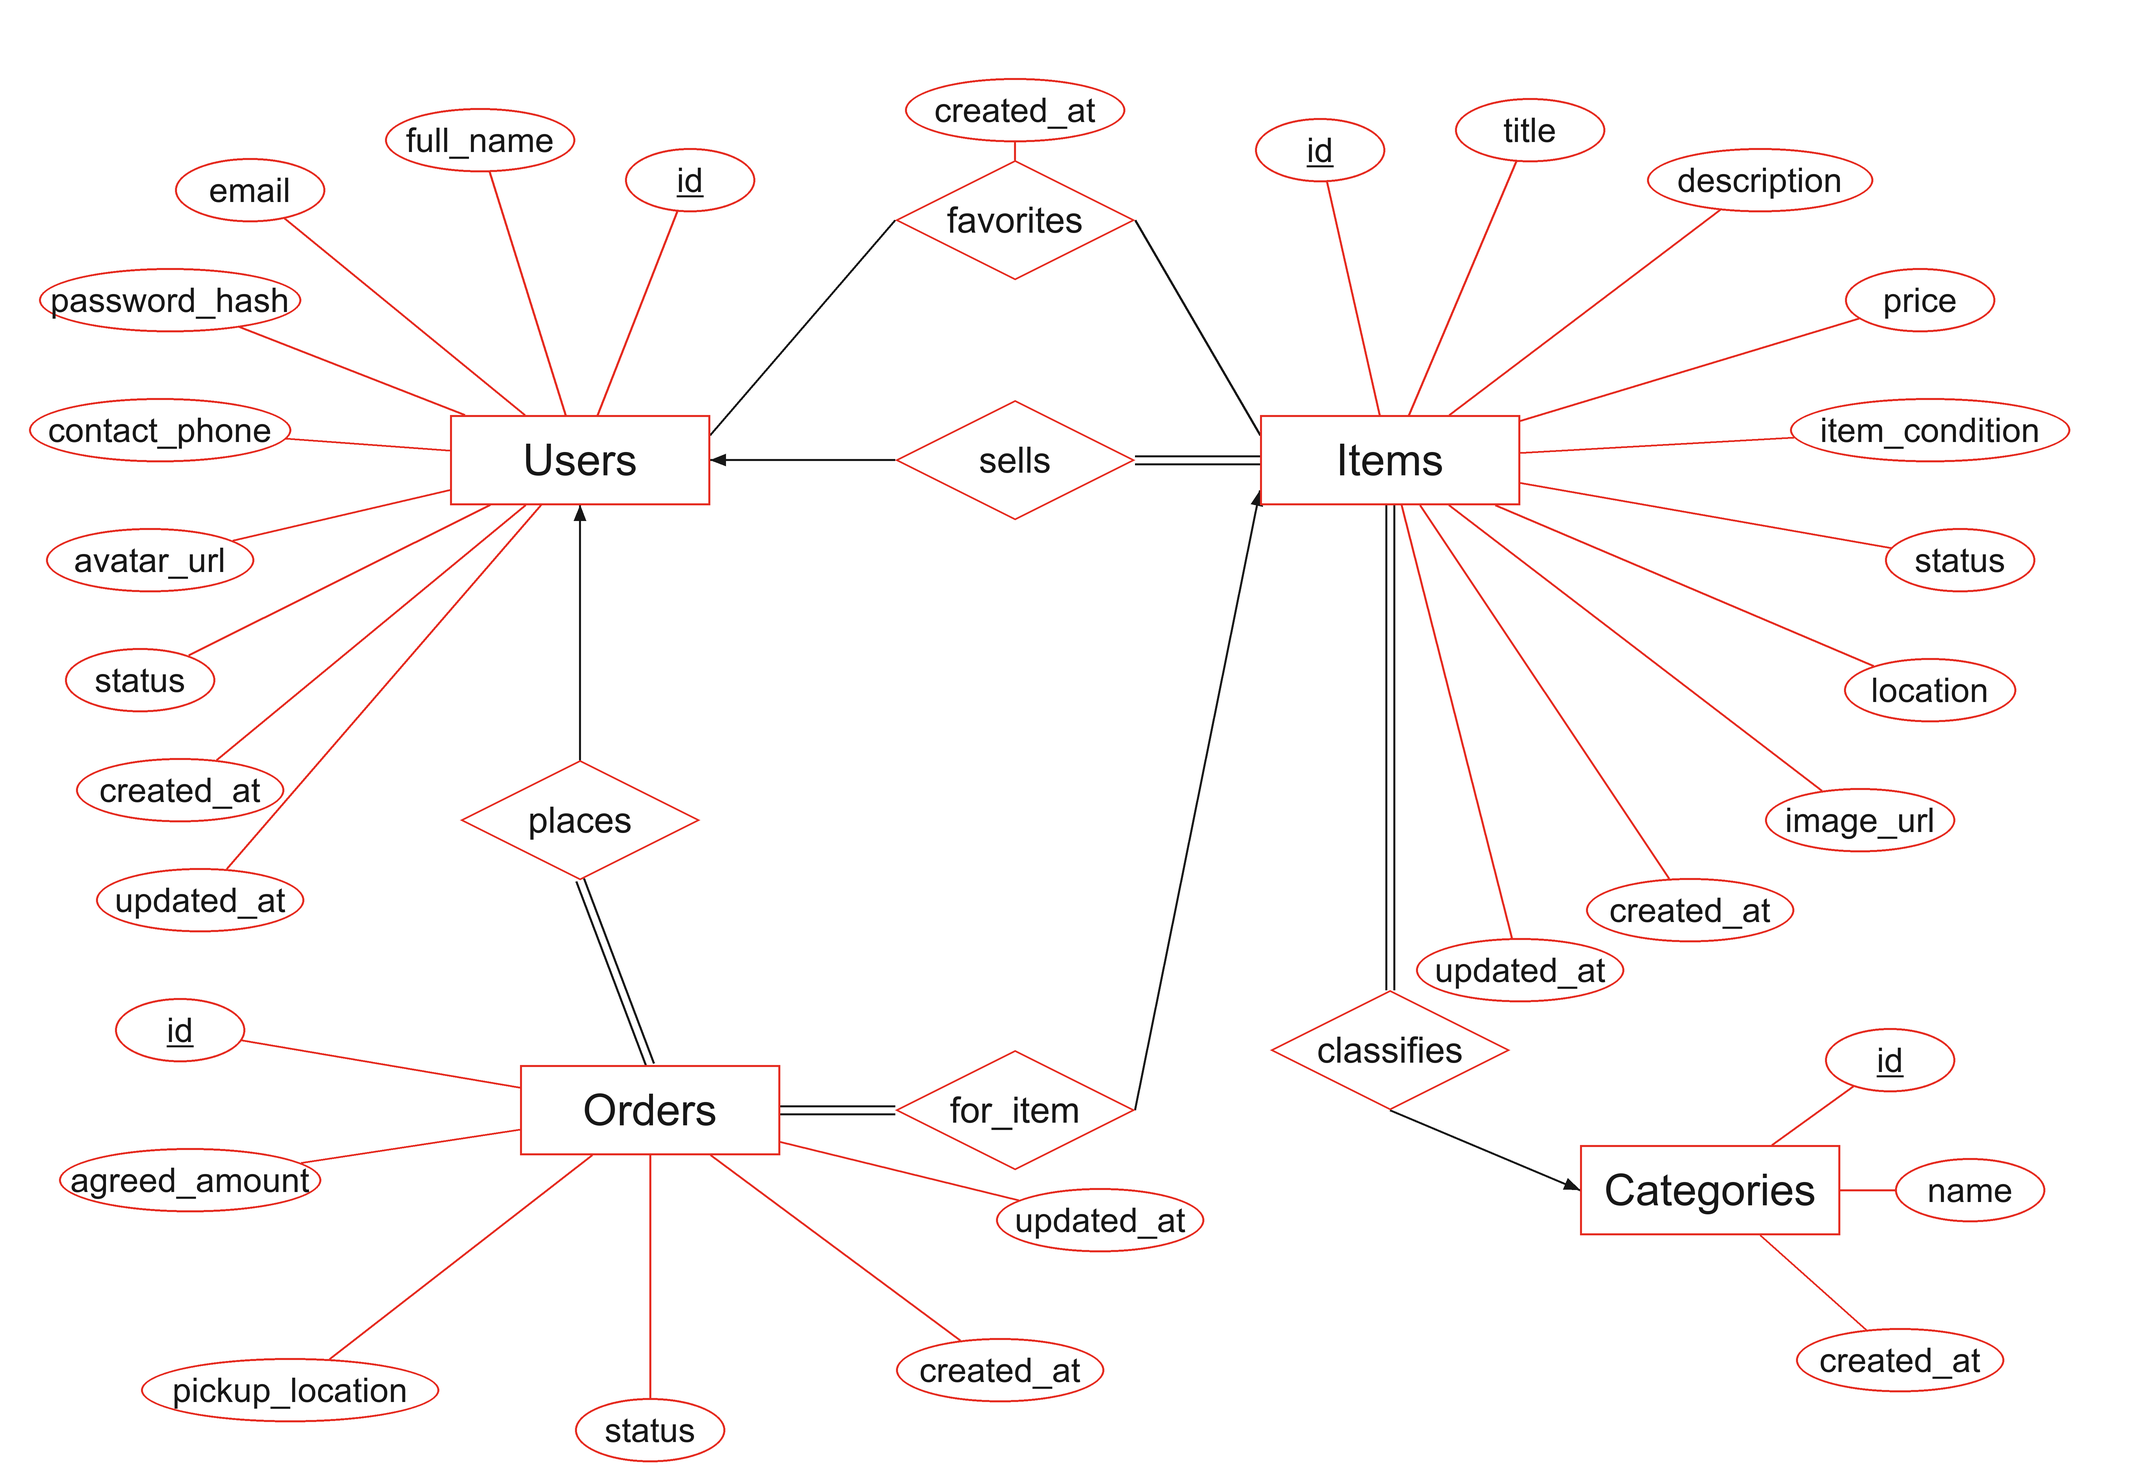
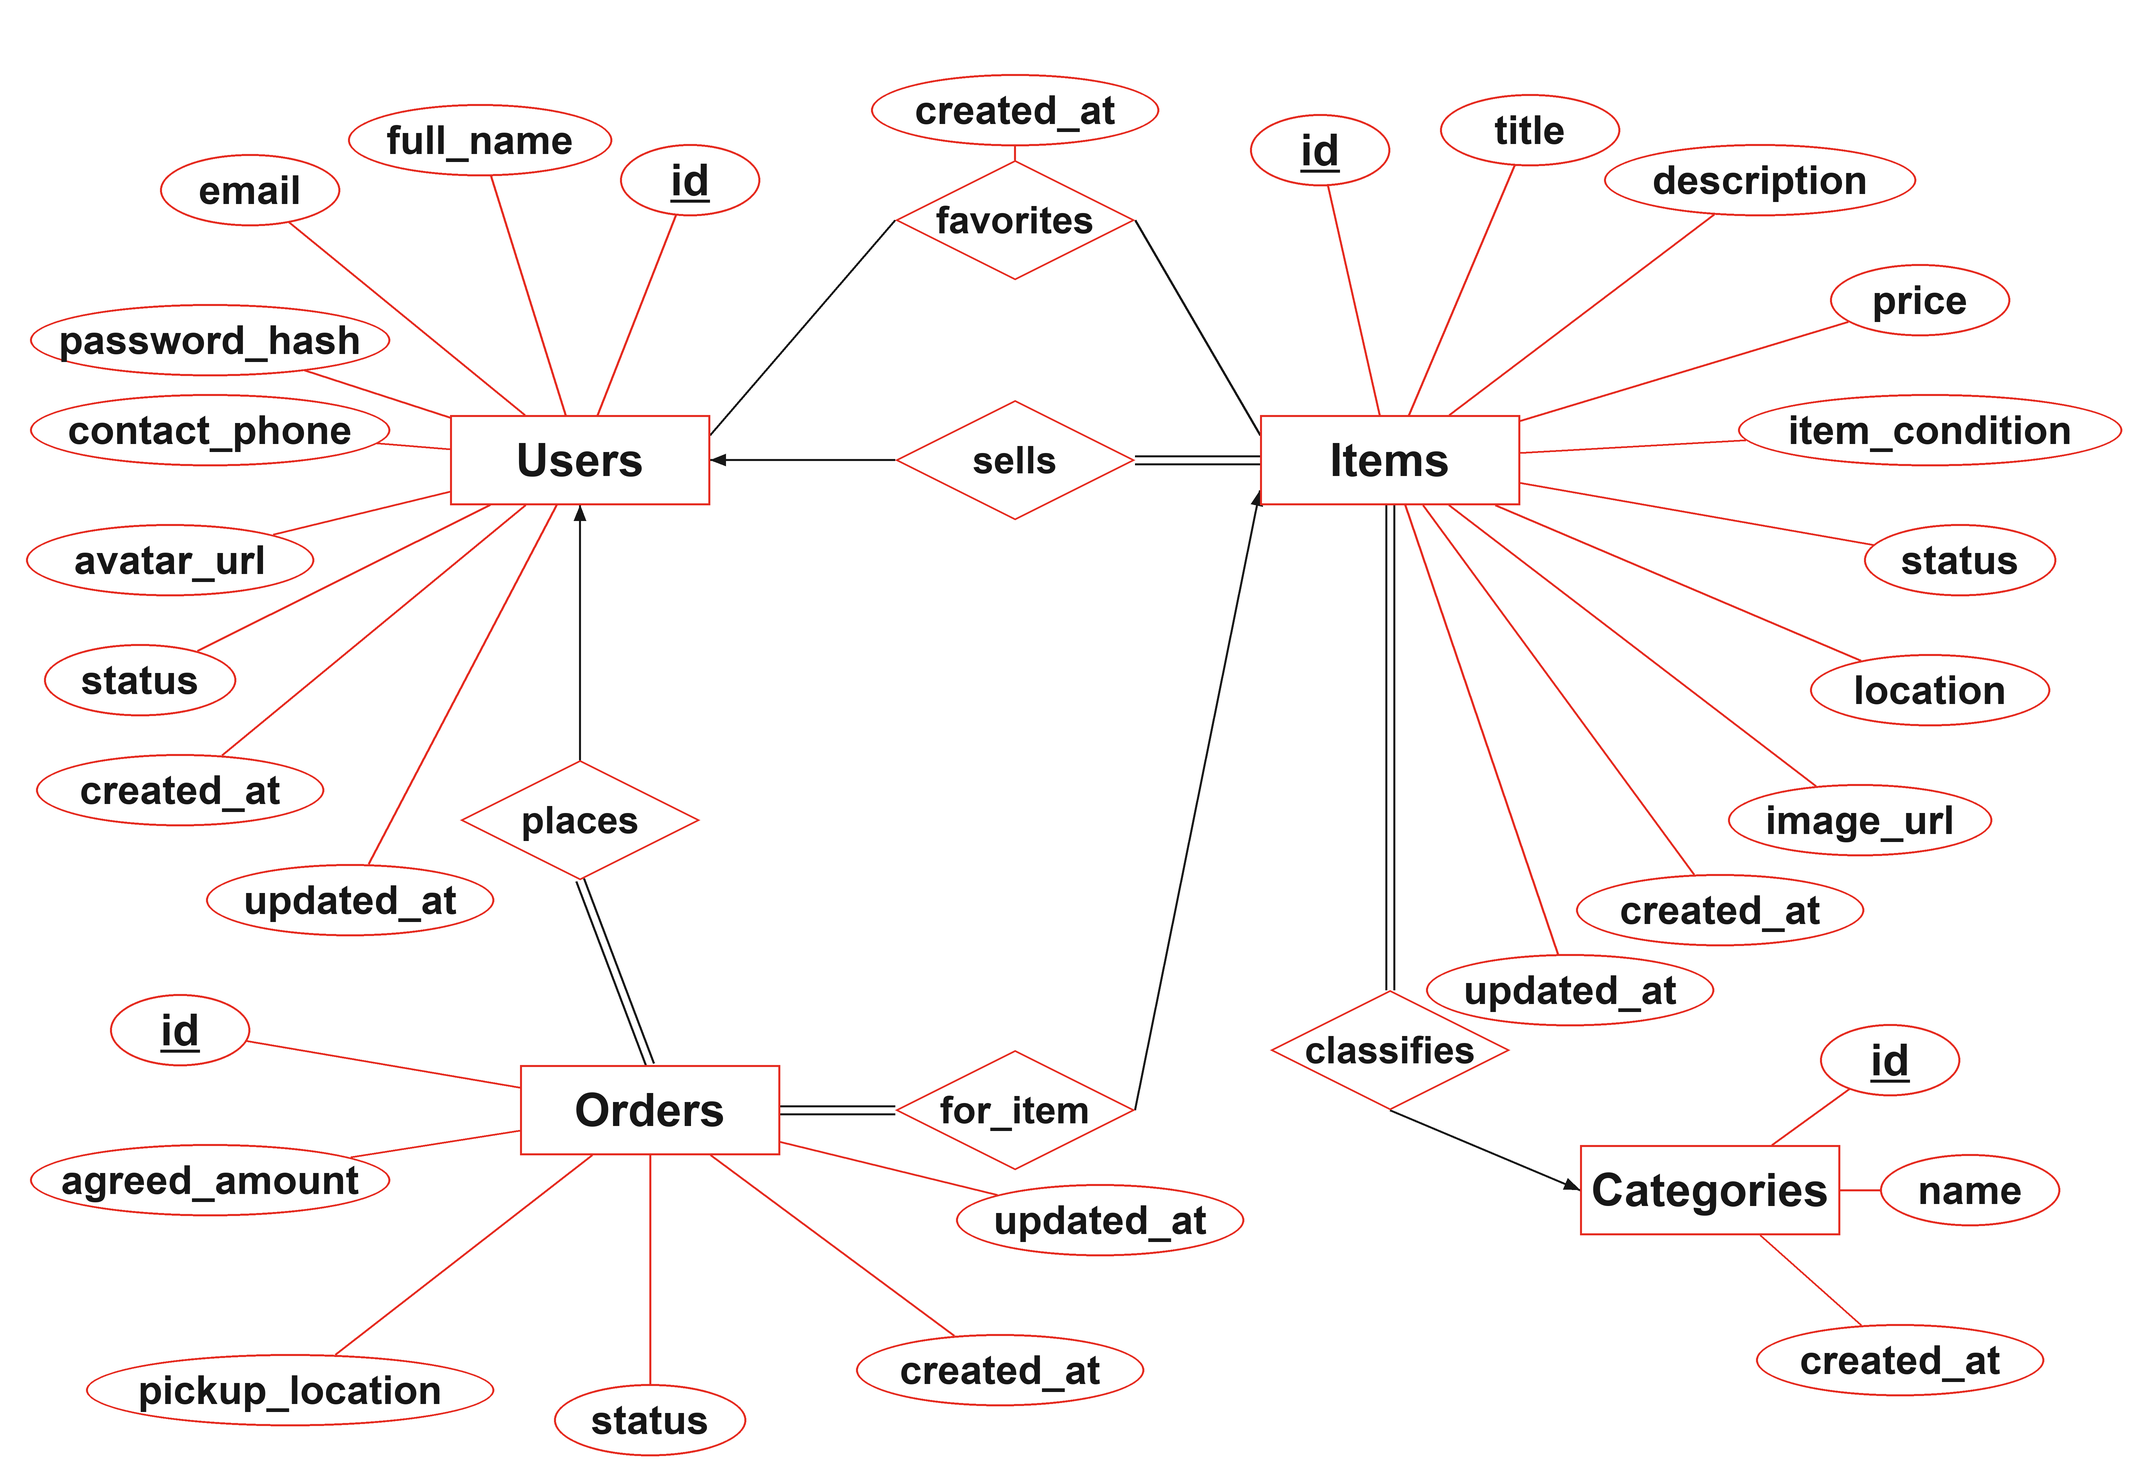
Make ER labels larger and bold with emphasized primary keys

diff --git a/scripts/render_er_diagram.py b/scripts/render_er_diagram.py
@@ -26,7 +26,7 @@ def line(points, color=BLACK, width=2, arrow=False):
 
 
 def text(x,y,label,size=25,underline=False,color=BLACK):
-    parts.append(f'<text x="{x}" y="{y}" text-anchor="middle" dominant-baseline="central" font-family="Arial, Helvetica, sans-serif" font-size="{size}" fill="{color}"'+(' text-decoration="underline"' if underline else '')+f'>{escape(label)}</text>')
+    parts.append(f'<text x="{x}" y="{y}" text-anchor="middle" dominant-baseline="central" font-family="Arial, Helvetica, sans-serif" font-size="{size}" font-weight="700" fill="{color}"'+(' text-decoration="underline"' if underline else '')+f'>{escape(label)}</text>')
     primitives.append(('text',(x,y),label,size,underline,color))
 
 
@@ -46,10 +46,10 @@ def attr(entity,center,label,key=False):
     ex,ey=entity; x,y=center
     dx=x-ex; dy=y-ey
     rscale=1/max(abs(dx)/130,abs(dy)/45)
-    rx=65 if key else max(75,len(label)*9+14); ry=32
+    rx=70 if key else max(90,len(label)*12+24); ry=36
     escale=1/math.sqrt((dx/rx)**2+(dy/ry)**2)
     line([(ex+dx*rscale,ey+dy*rscale),(x-dx*escale,y-dy*escale)],RED)
-    shape('ellipse',x,y,rx,ry,label,34,key)
+    shape('ellipse',x,y,rx,ry,label,44 if key else 40,key)
 
 
 def fan(entity,labels,angles,radius=500):
@@ -74,7 +74,7 @@ def build():
 
     line([(710,435),(895,220)])
     line([(1135,220),(1260,435)])
-    line([(1015,160),(1015,142)],RED)
+    line([(1015,160),(1015,146)],RED)
 
     line([(580,760),(580,505)],arrow=True)
     double((580,880),(650,1065))
@@ -86,27 +86,27 @@ def build():
     line([(1390,1110),(1580,1190)],arrow=True)
 
     for pos,label in [(U,'Users'),(I,'Items'),(O,'Orders'),(C,'Categories')]:
-        shape('rect',*pos,130,45,label,44)
+        shape('rect',*pos,130,45,label,46)
     for pos,label in [((1015,460),'sells'),((1015,220),'favorites'),((580,820),'places'),((1015,1110),'for_item'),((1390,1050),'classifies')]:
-        shape('diamond',*pos,120,60,label,36)
-    shape('ellipse',1015,110,110,32,'created_at',34)
+        shape('diamond',*pos,120,60,label,38)
+    shape('ellipse',1015,110,144,36,'created_at',40)
 
     # Compact, manually placed fans: large type, short spokes, no hidden attributes.
     for name,xy in [
         ('id',(690,180)),('full_name',(480,140)),('email',(250,190)),
-        ('password_hash',(170,300)),('contact_phone',(160,430)),
-        ('avatar_url',(150,560)),('status',(140,680)),
-        ('created_at',(180,790)),('updated_at',(200,900))]:
+        ('password_hash',(210,340)),('contact_phone',(210,430)),
+        ('avatar_url',(170,560)),('status',(140,680)),
+        ('created_at',(180,790)),('updated_at',(350,900))]:
         attr(U,xy,name,name=='id')
     for name,xy in [
         ('id',(1320,150)),('title',(1530,130)),('description',(1760,180)),
         ('price',(1920,300)),('item_condition',(1930,430)),('status',(1960,560)),
         ('location',(1930,690)),('image_url',(1860,820)),
-        ('created_at',(1690,910)),('updated_at',(1520,970))]:
+        ('created_at',(1720,910)),('updated_at',(1570,990))]:
         attr(I,xy,name,name=='id')
     for name,xy in [
-        ('id',(180,1030)),('agreed_amount',(190,1180)),('pickup_location',(290,1390)),
-        ('status',(650,1430)),('created_at',(1000,1370)),('updated_at',(1100,1220))]:
+        ('id',(180,1030)),('agreed_amount',(210,1180)),('pickup_location',(290,1390)),
+        ('status',(650,1420)),('created_at',(1000,1370)),('updated_at',(1100,1220))]:
         attr(O,xy,name,name=='id')
     for name,xy in [('id',(1890,1060)),('name',(1970,1190)),('created_at',(1900,1360))]:
         attr(C,xy,name,name=='id')
@@ -119,9 +119,9 @@ def png(path):
     canvas=Image.new('RGB',(W*scale,H*scale),'white');d=ImageDraw.Draw(canvas)
     def coords(points): return [(x*scale,y*scale) for x,y in points]
     def font(size):
-        for f in ['C:/Windows/Fonts/arial.ttf','/usr/share/fonts/truetype/dejavu/DejaVuSans.ttf']:
+        for f in ['C:/Windows/Fonts/arialbd.ttf','/usr/share/fonts/truetype/dejavu/DejaVuSans-Bold.ttf']:
             if Path(f).is_file():return ImageFont.truetype(f,size*scale)
-        raise SystemExit('PNG requires Arial or DejaVu Sans; SVG remains available.')
+        raise SystemExit('PNG requires Arial Bold or DejaVu Sans Bold; SVG remains available.')
     for p in primitives:
         if p[0]=='line':d.line(coords(p[1]),fill=p[2],width=p[3]*scale,joint='curve')
         elif p[0]=='polygon':d.polygon(coords(p[1]),fill=p[2])
@@ -130,7 +130,7 @@ def png(path):
             d.text((xy[0]*scale,xy[1]*scale),label,font=f,fill=color,anchor='mm')
             if under:
                 length=d.textlength(label,font=f)/scale
-                d.line(coords([(xy[0]-length/2,xy[1]+size*.48),(xy[0]+length/2,xy[1]+size*.48)]),fill=color,width=2*scale)
+                d.line(coords([(xy[0]-length/2,xy[1]+size*.48),(xy[0]+length/2,xy[1]+size*.48)]),fill=color,width=3*scale)
         else:
             _,kind,(x,y,rx,ry)=p;b=((x-rx)*scale,(y-ry)*scale,(x+rx)*scale,(y+ry)*scale)
             if kind=='rect':d.rectangle(b,fill='white',outline=RED,width=2*scale)

diff --git a/docs/er-diagram.md b/docs/er-diagram.md
@@ -6,7 +6,7 @@
 
 ## Layout revision
 
-The diagram now uses 34-pixel attribute text (previously 24) and 44-pixel entity text (previously 32), on a tighter 2150 x 1470 canvas (previously 3000 x 2300). Entity groups sit closer together, connectors use direct routes, SVG strokes have rounded caps/joins, and the PNG is rendered at 3x resolution before anti-aliased downsampling. The image contains only entity, relationship and attribute labels, with the required ER symbols. Title, legend and explanatory prose are intentionally outside the image.
+The diagram now uses 40-pixel bold attribute text, 44-pixel bold and underlined primary keys, and 46-pixel bold entity text (originally 24-pixel attributes and 32-pixel entities), on a tighter 2150 x 1470 canvas (previously 3000 x 2300). Entity groups sit closer together, connectors use direct routes, SVG strokes have rounded caps/joins, and the PNG is rendered at 3x resolution before anti-aliased downsampling. The image contains only entity, relationship and attribute labels, with the required ER symbols. Title, legend and explanatory prose are intentionally outside the image.
 
 The current revision branch is `improve-er-diagram-layout`. The earlier `docs/chen-er-diagram` name meant documentation using Chen ER notation; it was not a teammate name.
 
@@ -91,12 +91,12 @@ python -m pip install Pillow
 python scripts/render_er_diagram.py --png
 ```
 
-PNG rendering uses Arial on Windows or DejaVu Sans on Linux; install one of those fonts if needed. SVG remains usable without either installed locally (the viewer supplies a sans-serif fallback). The committed SVG/PNG are ready to view without running the script. No PDF renderer, Graphviz, Mermaid extension, browser, or external image service is required.
+PNG rendering uses Arial Bold on Windows or DejaVu Sans Bold on Linux; install one of those fonts if needed. SVG remains usable without either installed locally (the viewer supplies a sans-serif fallback). The committed SVG/PNG are ready to view without running the script. No PDF renderer, Graphviz, Mermaid extension, browser, or external image service is required.
 
 ## Checks and presentation use
 
 - Visually inspected the full rendered PNG and corrected overlapping ellipses/labels.
-- Verified four entity rectangles, five relationship diamonds, 29 attribute ellipses and four underlined primary keys.
+- Verified four entity rectangles, five relationship diamonds, 29 attribute ellipses and four bold, underlined primary keys.
 - Verified all 35 columns in `sql/schema.sql` are accounted for by attributes or relationship mappings.
 - Verified relationships agree with NOT NULL foreign keys and the existing seed's order history.
 - Database SQL and its 37-check test suite are unchanged by this documentation branch.
